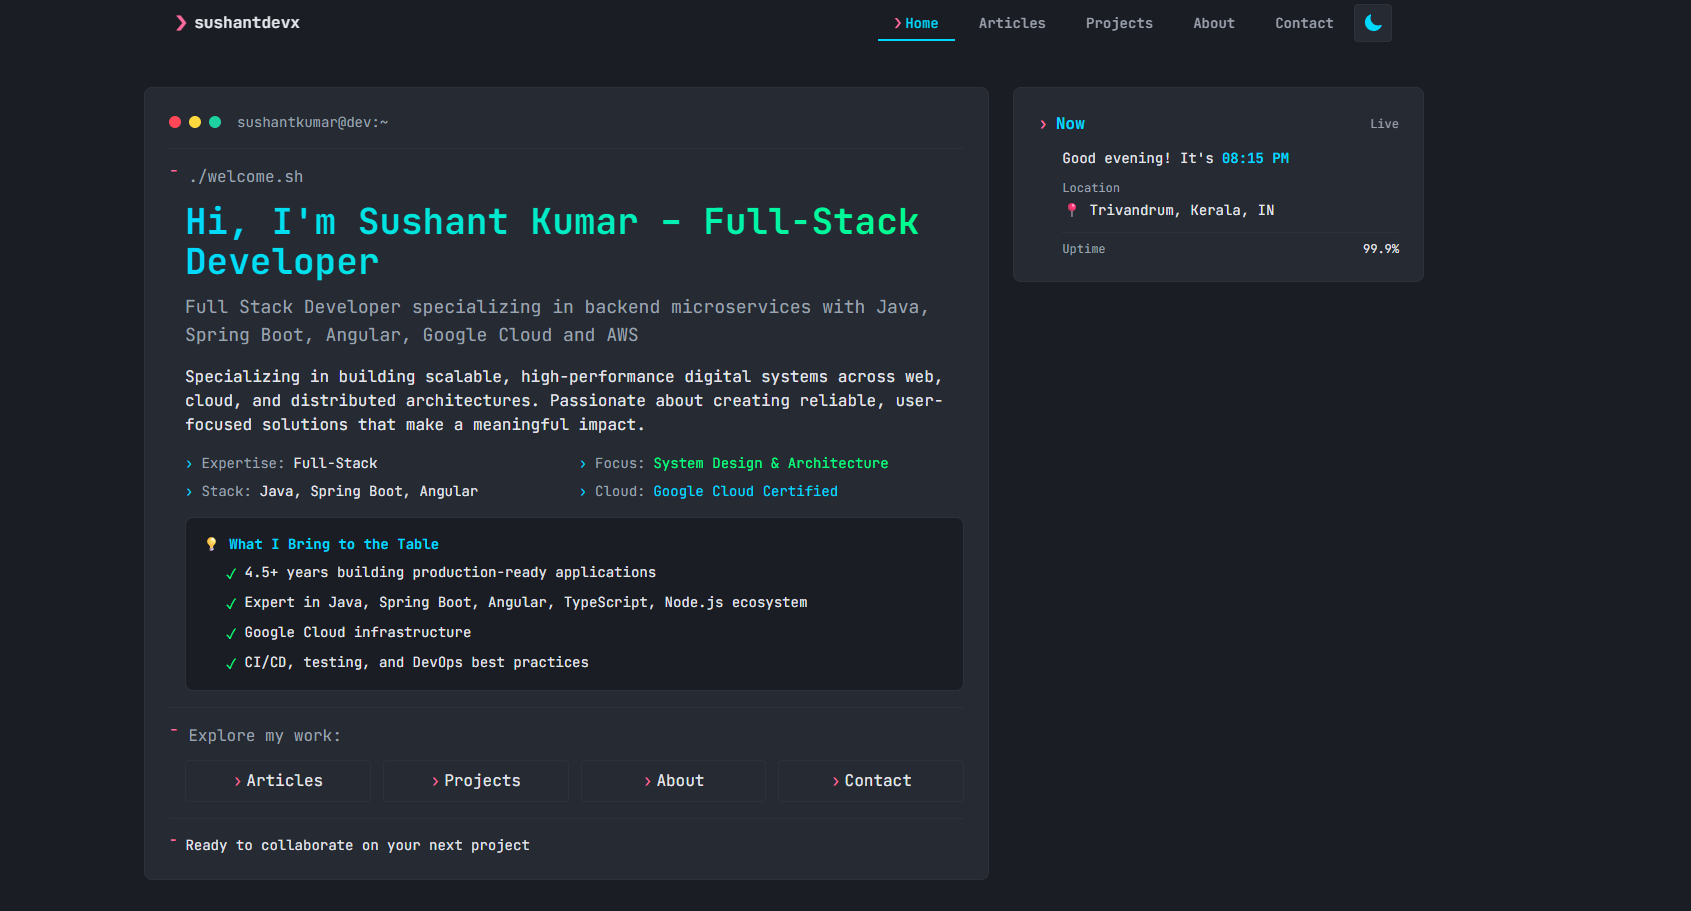
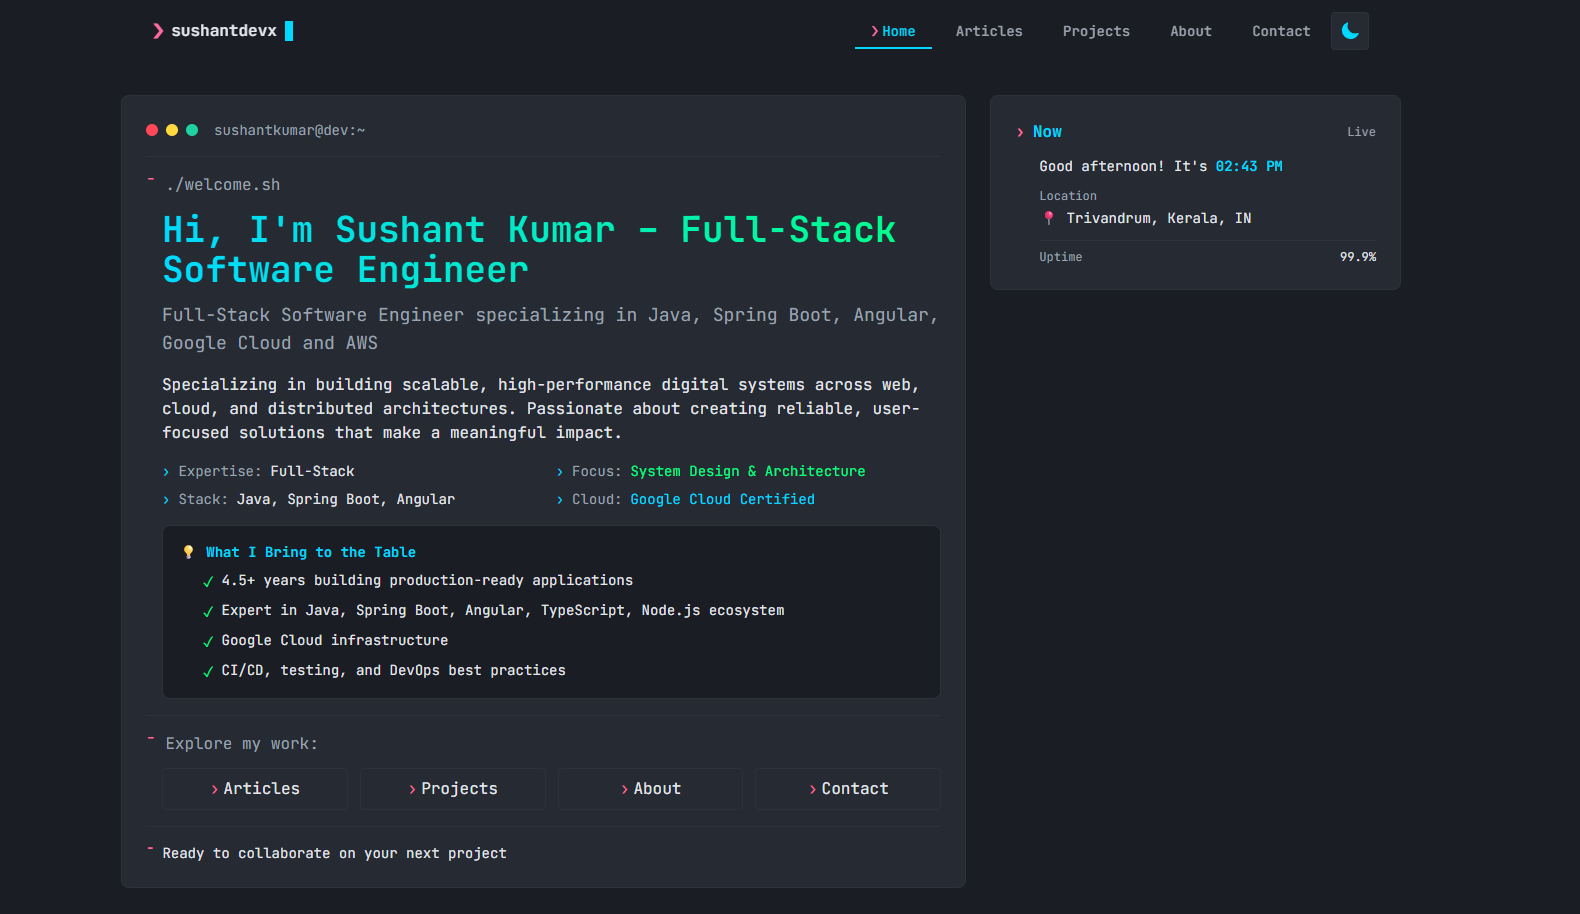
Email Address Updated

diff --git a/neo-terminal-portfolio/src/app/page.tsx b/neo-terminal-portfolio/src/app/page.tsx
@@ -10,7 +10,7 @@ import GitHubActivity from '@/components/GitHubActivity';
 export default async function Home() {
   // Get usernames from environment variables or config
   const mediumUsername = process.env.NEXT_PUBLIC_MEDIUM_USERNAME || 'sushantk.dev';
-  const githubUsername = process.env.NEXT_PUBLIC_GITHUB_USERNAME || 'sushantk.dev';
+  const githubUsername = process.env.NEXT_PUBLIC_GITHUB_USERNAME || 'sushantk-dev';
 
   // await delay(2000);
 

diff --git a/neo-terminal-portfolio/src/components/Navigation.tsx b/neo-terminal-portfolio/src/components/Navigation.tsx
@@ -38,7 +38,7 @@ export default function Navigation() {
           >
             <span className="text-terminal-prompt font-bold text-xl">❯</span>
             <span className="text-terminal-text font-semibold group-hover:text-terminal-cyan transition-colors">
-              {"sushantdevx"}
+              {"sushantk.dev"}
             </span>
             <span className="terminal-cursor"></span>
           </Link>
